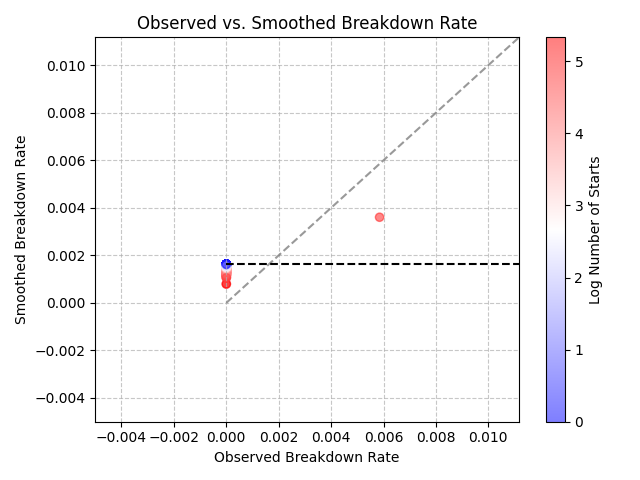
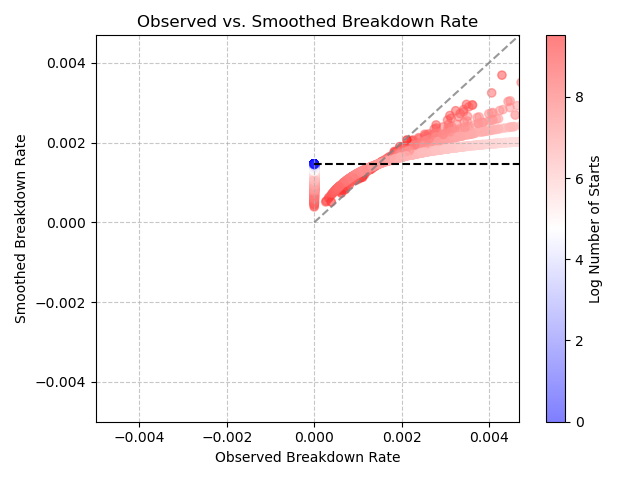
finished data refactor

diff --git a/src/smoothing/beta_binom.py b/src/smoothing/beta_binom.py
@@ -11,46 +11,8 @@ from smoothing.constants import (
     INITIAL_PARAMS,
     BOUNDS,
     N_SAMPLES,
-    N_TRIALS,
-    COLS_FOR_SMOOTHING,
-    DENOMINATORS,
+    N_TRIALS
 )
-
-
-def group_trainer_info(df: pd.DataFrame) -> pd.DataFrame:
-
-    trainer_entries = df.groupby('trainer_id').agg({
-        'registration_number': 'nunique',
-        'race_date': 'count'
-    }).reset_index().rename(columns={
-        'registration_number': 'n_horses', 
-        'race_date': 'n_entries'
-    })
-
-    starts = df[df['scratched'] == 0]
-    trainer_starts = starts.groupby('trainer_id').agg({
-        'race_date': 'count'
-    }).reset_index().rename(columns={
-        'race_date': 'n_starts'
-    })
-
-    trainer_stats = df.groupby('trainer_id').agg({
-        'dnf': 'sum',
-        'scratched': 'sum',
-        'vet_scratched': 'sum',
-        'badly_beaten': 'sum',
-        'breakdown': 'sum'
-    }).reset_index()
-
-    trainer_data = trainer_entries.merge(trainer_starts, on='trainer_id', how='inner')
-    trainer_data = trainer_data.merge(trainer_stats, on='trainer_id', how='inner')
-    trainer_data = trainer_data.fillna(0)
-
-    for col in COLS_FOR_SMOOTHING:
-        trainer_data[f'{col}_pct'] = trainer_data[col] / trainer_data[DENOMINATORS[col]]
-
-
-    return trainer_data
 
 
 def log_likelihood(params: Tuple[float], x: pd.Series, total: pd.Series) -> float:
@@ -67,7 +29,6 @@ def log_likelihood(params: Tuple[float], x: pd.Series, total: pd.Series) -> floa
 def calculate_beta_binom_params(df: pd.DataFrame, x_column: str, total_column: str) -> Tuple[float, float]:
     
     df_threshold = df[df["n_starts"] >= MIN_STARTS_THRESHOLD]
-
     x = df_threshold[x_column].values
     total = df_threshold[total_column].values
 
@@ -97,16 +58,24 @@ def get_smoothing_params(df: pd.DataFrame) -> Dict:
         json.dump(smoothing_params, f)
 
     return smoothing_params
-    
+
+
+def load_smoothing_params() -> Dict:
+    with open('output/smoothing/smoothing_params.json', 'r') as f:
+        smoothing_params = json.load(f)
+
+    return smoothing_params
+
 
 def calculate_smoothed_rates(df: pd.DataFrame, smoothing_params: Dict) -> pd.DataFrame:
     for c in COLS_FOR_SMOOTHING:
         alpha0 = smoothing_params[c]['alpha0']
         beta0 = smoothing_params[c]['beta0']
 
-        df[f'{c}_smoothed'] = (df[c] + alpha0) / (df[DENOMINATORS[c]] + alpha0 + beta0)
+        df[f'{c}_pct_smoothed'] = (df[c] + alpha0) / (df[DENOMINATORS[c]] + alpha0 + beta0)
 
     return df
+    
 
 
 def generate_beta_binomial_samples(
@@ -118,3 +87,94 @@ def generate_beta_binomial_samples(
     return samples
 
 
+def create_sample_plot(alpha0: float, beta0: float, column_name: str) -> None:
+    samples = generate_beta_binomial_samples(N_TRIALS, alpha0, beta0, N_SAMPLES)
+
+    plt.figure()
+    plt.hist(
+        samples,
+        bins=np.arange(0, N_TRIALS / 10) - 0.5,
+        density=False,
+        alpha=0.75,
+        color="blue",
+        edgecolor="black",
+    )
+
+    plt.xlim(-0.05, max(samples) + 0.1*max(samples))
+    plt.xlabel(f"{DISPLAY_NAMES[column_name]} per {N_TRIALS} starts")
+    plt.ylabel("Count of Trainers")
+    plt.title(f"Simulated Number of {DISPLAY_NAMES[column_name]}")
+    plt.grid(axis="both", linestyle="--", alpha=0.7)
+    plt.tight_layout()
+    plt.savefig(f"output/smoothing/{column_name}_simulation_per_1000.png")
+    plt.close()
+
+
+
+
+def create_ranking_plot(df: pd.DataFrame, alpha0: float, beta0: float, column_name: str) -> None:
+    df = df.dropna(subset=[f"{column_name}_pct", DENOMINATORS[column_name], f"{column_name}_pct_smoothed"])
+
+    df["low"] = beta.ppf(0.025, alpha0 + df[column_name], beta0 + df[DENOMINATORS[column_name]] - df[column_name])
+    df["high"] = beta.ppf(0.975, alpha0 + df[column_name], beta0 + df[DENOMINATORS[column_name]] - df[column_name])
+
+    if df.shape[0] > 10:
+        print("Warning: Too many trainers to plot. Showing a random sample of 10.")
+        df = df.sample(10)
+
+    df = df.sort_values(f'{column_name}_pct_smoothed').reset_index(drop=True)
+
+    plt.figure()
+    plt.errorbar(
+        df[f'{column_name}_pct_smoothed'],
+        df["trainer_id"].astype(str),
+        xerr=[df[f'{column_name}_pct_smoothed'] - df["low"], df["high"] - df[f'{column_name}_pct_smoothed']],
+        fmt="o",
+        color="blue",
+        ecolor="black",
+        capsize=3,
+    )
+    plt.axvline(x=alpha0 / (alpha0 + beta0), color="red", linestyle="--")
+    plt.xlabel(f"Smoothed {DISPLAY_NAMES[column_name]} Percentage, with 95% credible interval")
+    plt.ylabel("Trainer")
+    plt.title(f"Trainer Rankings by Smoothed {DISPLAY_NAMES[column_name]} Percentage")
+    plt.tight_layout()
+    plt.grid(axis="both", linestyle="--", alpha=0.7)
+    plt.savefig(f"output/smoothing/{column_name}_ranking_plot.png")
+    plt.close()
+
+
+def create_smoothed_scatter_plot(df: pd.DataFrame, alpha0: float, beta0: float, column_name: str) -> None:
+
+    df = df.dropna(subset=[f"{column_name}_pct", DENOMINATORS[column_name], f"{column_name}_pct_smoothed"])
+    plt.figure()
+    plt.scatter(
+        df[f"{column_name}_pct"],
+        df[f"{column_name}_pct_smoothed"],
+        c=np.log(df[DENOMINATORS[column_name]]),
+        cmap="bwr",
+        alpha=0.5,
+    )
+    if column_name == "breakdown":
+        min_val = -0.0005
+    else:
+        min_val = -0.005
+
+    max_val = max(df[f'{column_name}_pct_smoothed']) + 0.01*max(df[f'{column_name}_pct_smoothed'])
+    plt.plot([0, max_val], [0, max_val], color="gray", linestyle="--", alpha=0.8)
+    plt.plot(
+        [0, max_val],
+        [(alpha0) / (alpha0 + beta0), (alpha0) / (alpha0 + beta0)],
+        color="black",
+        linestyle="--",
+    )
+    plt.xlim(min_val, max_val)
+    plt.ylim(min_val, max_val)
+    plt.xlabel(f"Observed {DISPLAY_NAMES[column_name]} Rate")
+    plt.ylabel(f"Smoothed {DISPLAY_NAMES[column_name]} Rate")
+    plt.title(f"Observed vs. Smoothed {DISPLAY_NAMES[column_name]} Rate")
+    plt.colorbar(label="Log Number of Starts")
+    plt.grid(axis="both", linestyle="--", alpha=0.7)
+    plt.tight_layout()
+    plt.savefig(f"output/smoothing/{column_name}_smoothed_scatter.png")
+    plt.close()

diff --git a/src/utils/processing.py b/src/utils/processing.py
@@ -4,6 +4,7 @@ import numpy as np
 import datetime
 
 from utils.constants import SEED, BADLY_BEATEN_THRESHOLD
+from smoothing.constants import COLS_FOR_SMOOTHING, DENOMINATORS
 
 
 def get_dnf(df: pd.DataFrame) -> pd.Series:
@@ -68,6 +69,52 @@ def get_breakdown(df: pd.DataFrame) -> pd.Series:
     )
 
     return pd.Series(breakdown, name='breakdown')
+
+
+def build_features(df: pd.DataFrame) -> pd.DataFrame:
+    df['dnf'] = get_dnf(df)
+    df['scratched'], df['vet_scratched'] = get_scratches(df)
+    df['lasix'], df['bute'] = get_medication(df)
+    df['badly_beaten'] = get_badly_beaten(df)
+    df['breakdown'] = get_breakdown(df)
+
+    return df
+
+
+def group_trainer_info(df: pd.DataFrame) -> pd.DataFrame:
+
+    trainer_entries = df.groupby('trainer_id').agg({
+        'registration_number': 'nunique',
+        'race_date': 'count'
+    }).reset_index().rename(columns={
+        'registration_number': 'n_horses', 
+        'race_date': 'n_entries'
+    })
+
+    starts = df[df['scratched'] == 0]
+    trainer_starts = starts.groupby('trainer_id').agg({
+        'race_date': 'count'
+    }).reset_index().rename(columns={
+        'race_date': 'n_starts'
+    })
+
+    trainer_stats = df.groupby('trainer_id').agg({
+        'dnf': 'sum',
+        'scratched': 'sum',
+        'vet_scratched': 'sum',
+        'badly_beaten': 'sum',
+        'breakdown': 'sum'
+    }).reset_index()
+
+    trainer_data = trainer_entries.merge(trainer_starts, on='trainer_id', how='inner')
+    trainer_data = trainer_data.merge(trainer_stats, on='trainer_id', how='inner')
+    trainer_data = trainer_data.fillna(0)
+
+    for col in COLS_FOR_SMOOTHING:
+        trainer_data[f'{col}_pct'] = trainer_data[col] / trainer_data[DENOMINATORS[col]]
+
+
+    return trainer_data
 
 
 

diff --git a/src/build_smoothed_model.py b/src/build_smoothed_model.py
@@ -1,21 +1,24 @@
-import json
-
 from utils.load_data import load_data
+from utils.processing import build_features, group_trainer_info
 import smoothing.beta_binom as bb
+
+from utils.constants import OUTPUT_BUCKET
+from smoothing.constants import COLS_FOR_SMOOTHING
 
 
 def main():
-    df = load_data(local=True)
-    df = bb.preprocess_data(df)
-    alpha, beta = bb.calculate_beta_binom_params(df)
-    bb.create_sample_plot(alpha, beta)
-    df['smoothed_dnf_pct'] = (df['dnf'] + alpha) / (df['n_starts'] + alpha + beta)
-    df['smoothed_dnf_percentile'] = round(100*df['smoothed_dnf_pct'].rank(pct=True, ascending=False))
-    bb.create_smoothed_scatter_plot(df, alpha, beta)
-    bb.create_ranking_plot(df, alpha, beta)
+    df = load_data(False, True)
+    df = build_features(df)
+    trainers = group_trainer_info(df)
+    smoothing_params = bb.get_smoothing_params(trainers)
+    trainers = bb.calculate_smoothed_rates(trainers, smoothing_p
 
-    with open('output/smoothing/beta_binom_params.json', 'w') as f:
-        json.dump({'alpha': alpha, 'beta': beta}, f)
+    for c in COLS_FOR_SMOOTHING:
+        bb.create_smoothed_scatter_plot(trainers, smoothing_params[c]['alpha0'], smoothing_params[c]['beta0'], c)
+        bb.create_sample_plot(smoothing_params[c]['alpha0'], smoothing_params[c]['beta0'], c)
+        bb.create_ranking_plot(trainers, smoothing_params[c]['alpha0'], smoothing_params[c]['beta0'], c)
+        
+    trainers.to_csv(f's3://{OUTPUT_BUCKET}/trainer_rates_smoothed.csv', index=False)
 
 
 if __name__ == '__main__':
